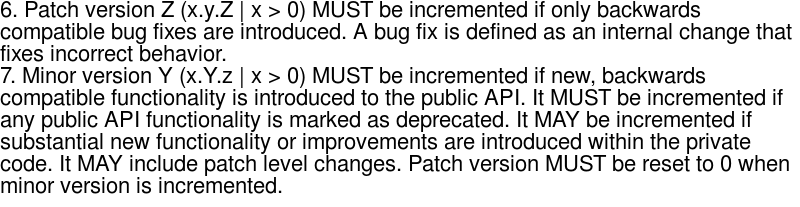
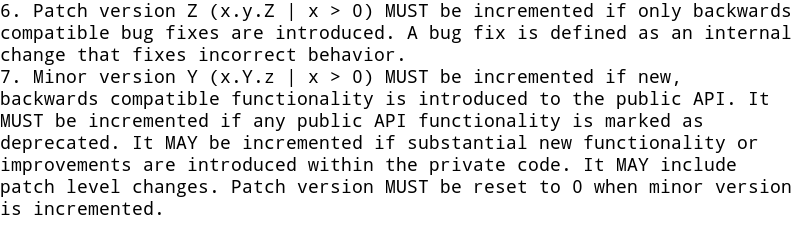
font Noto-Mono size 18

diff --git a/README.md b/README.md
@@ -9,10 +9,10 @@ sudo apt install imagemagick
 
 - Convert md in [docs](./docs/shared.md) to png in [imgs](./imgs/67-md.png):
 ```bash
-convert -background white -size 450x -fill black -font Times-Roman -pointsize 14 caption:"$(cat docs/shared.md)" imgs/67-md.png
+convert -background white -size 800x -fill black -font Noto-Mono -pointsize 18 caption:"$(cat docs/shared.md)" imgs/67-md.png
 ```
 
 - Convert txt in [txt](./txt/123.txt) to png in [imgs](./imgs/123-txt.png):
 ```bash
-convert -background white -size 800x -fill black -font Times-Roman -pointsize 22 caption:"$(cat txt/123.txt)" imgs/123-txt.png
+convert -background white -size 860x -fill black -font Noto-Mono -pointsize 18 caption:"$(cat txt/123.txt)" imgs/123-txt.png
 ```
